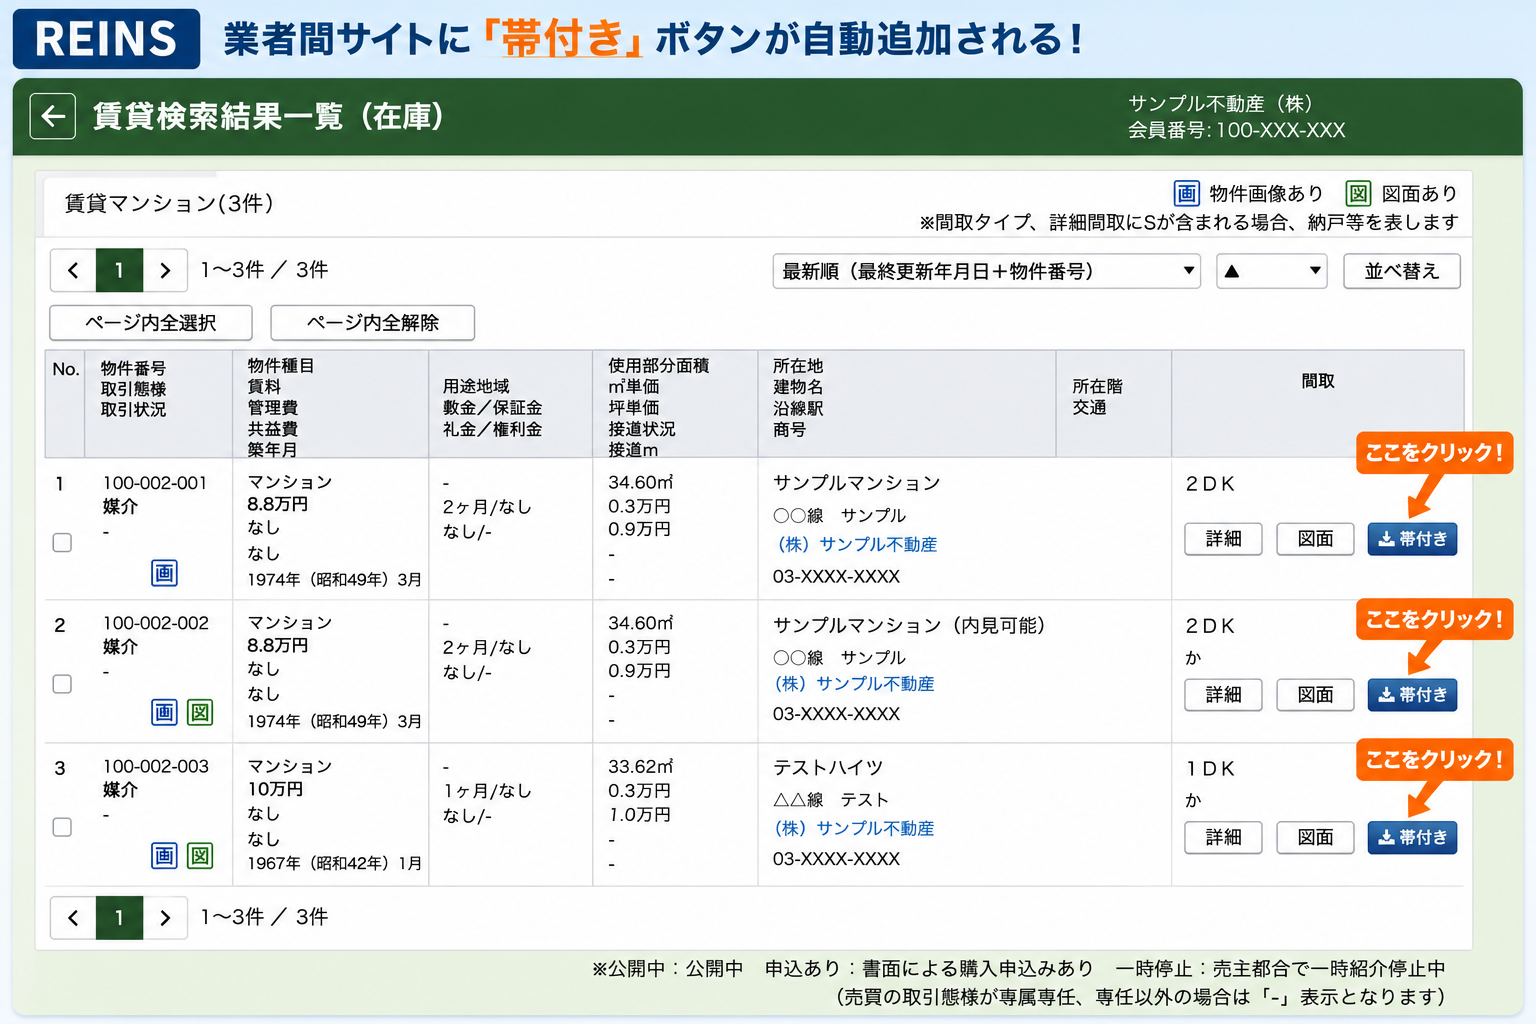
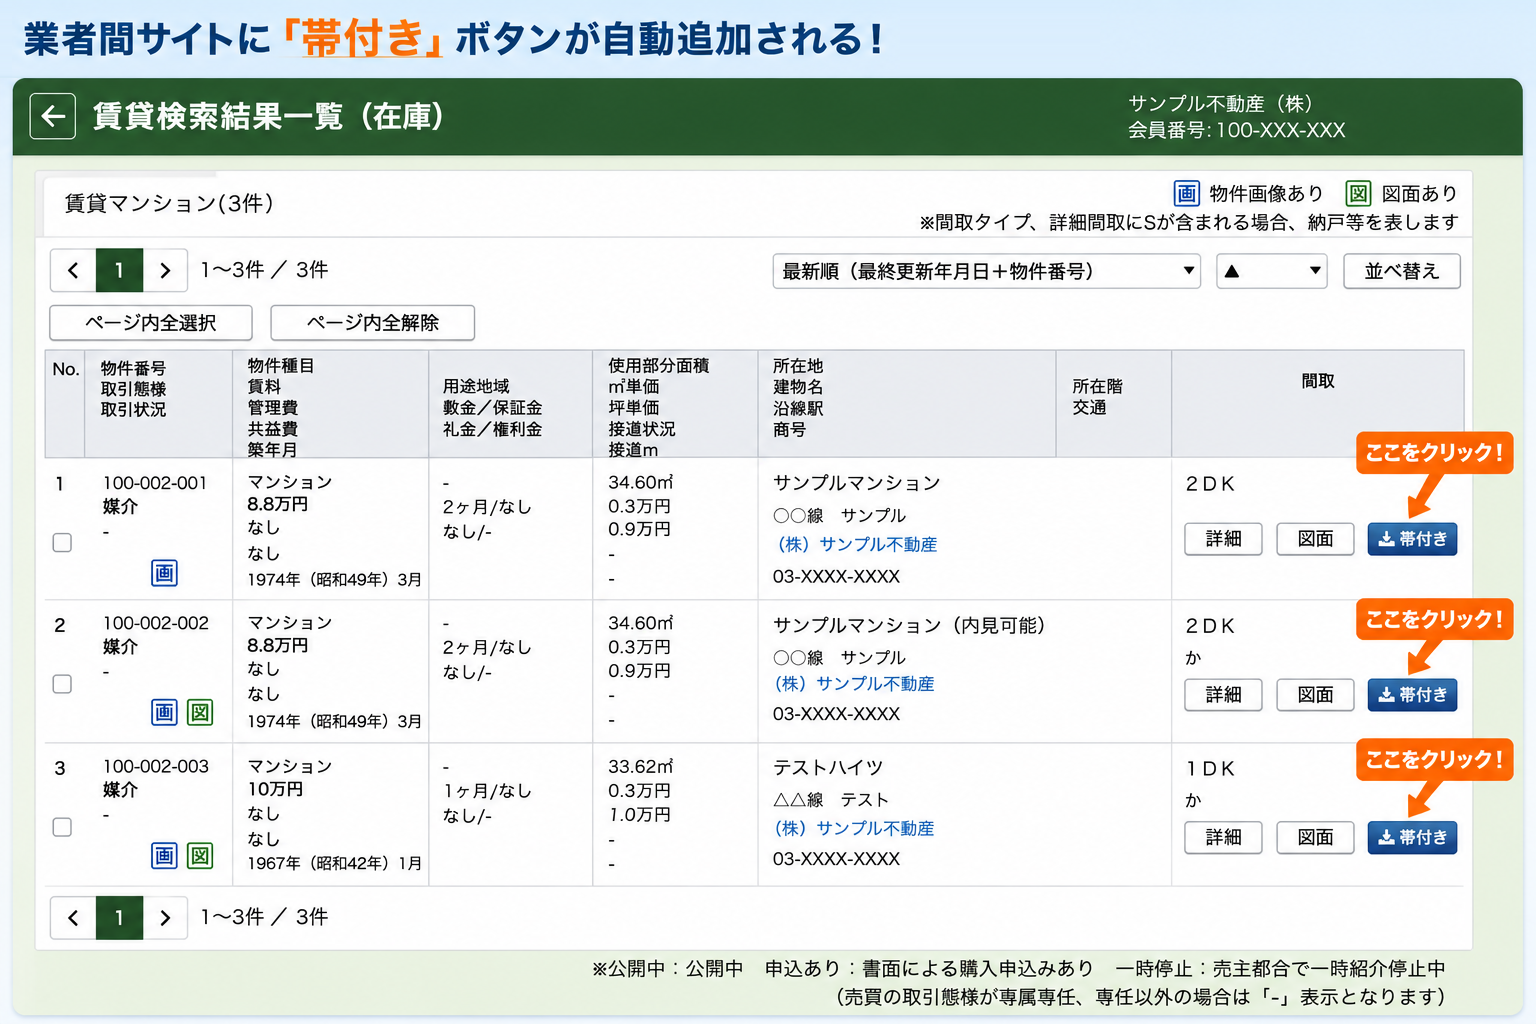
lp: replace site names in hero images with generic wording, drop ATBB/REINS badges

Changed region(s): [[0.0, 0.0, 0.7188, 0.0938]]

diff --git a/index.html b/index.html
@@ -1495,8 +1495,8 @@
       <div class="container">
         <h1 class="hero-image-wrap">
           <picture>
-            <source media="(max-width: 760px)" srcset="/illust/hero-v2-mobile.png?v=5">
-            <img src="/illust/hero-v2-pc.png?v=6"
+            <source media="(max-width: 760px)" srcset="/illust/hero-v2-mobile.png?v=6">
+            <img src="/illust/hero-v2-pc.png?v=7"
                  alt="帯替えGO‼ - 不動産の募集図面（マイソク）の「帯」を、ワンクリックで自社帯へ。初期費用なし・解約縛りなし・14日間無料でお試し"
                  loading="eager" fetchpriority="high">
           </picture>
@@ -1577,11 +1577,11 @@
         <!-- 実画面プレビュー -->
         <div class="site-preview-grid">
           <figure class="site-preview">
-            <img src="/illust/site-atbb.png" alt="ATBB の物件一覧に『帯付きDL』ボタンが自動追加されたイメージ" loading="lazy">
+            <img src="/illust/site-atbb.png?v=2" alt="ATBB の物件一覧に『帯付きDL』ボタンが自動追加されたイメージ" loading="lazy">
             <figcaption>業者間サイトの物件一覧。<strong>各カードに「帯付きDL」ボタン</strong>が自動追加されます。</figcaption>
           </figure>
           <figure class="site-preview">
-            <img src="/illust/site-reins.png" alt="REINS の賃貸検索結果一覧に『帯付き』ボタンが自動追加されたイメージ" loading="lazy">
+            <img src="/illust/site-reins.png?v=2" alt="REINS の賃貸検索結果一覧に『帯付き』ボタンが自動追加されたイメージ" loading="lazy">
             <figcaption>賃貸の検索結果一覧。<strong>1クリックで自社帯入りPDF</strong>が完成します。</figcaption>
           </figure>
         </div>
